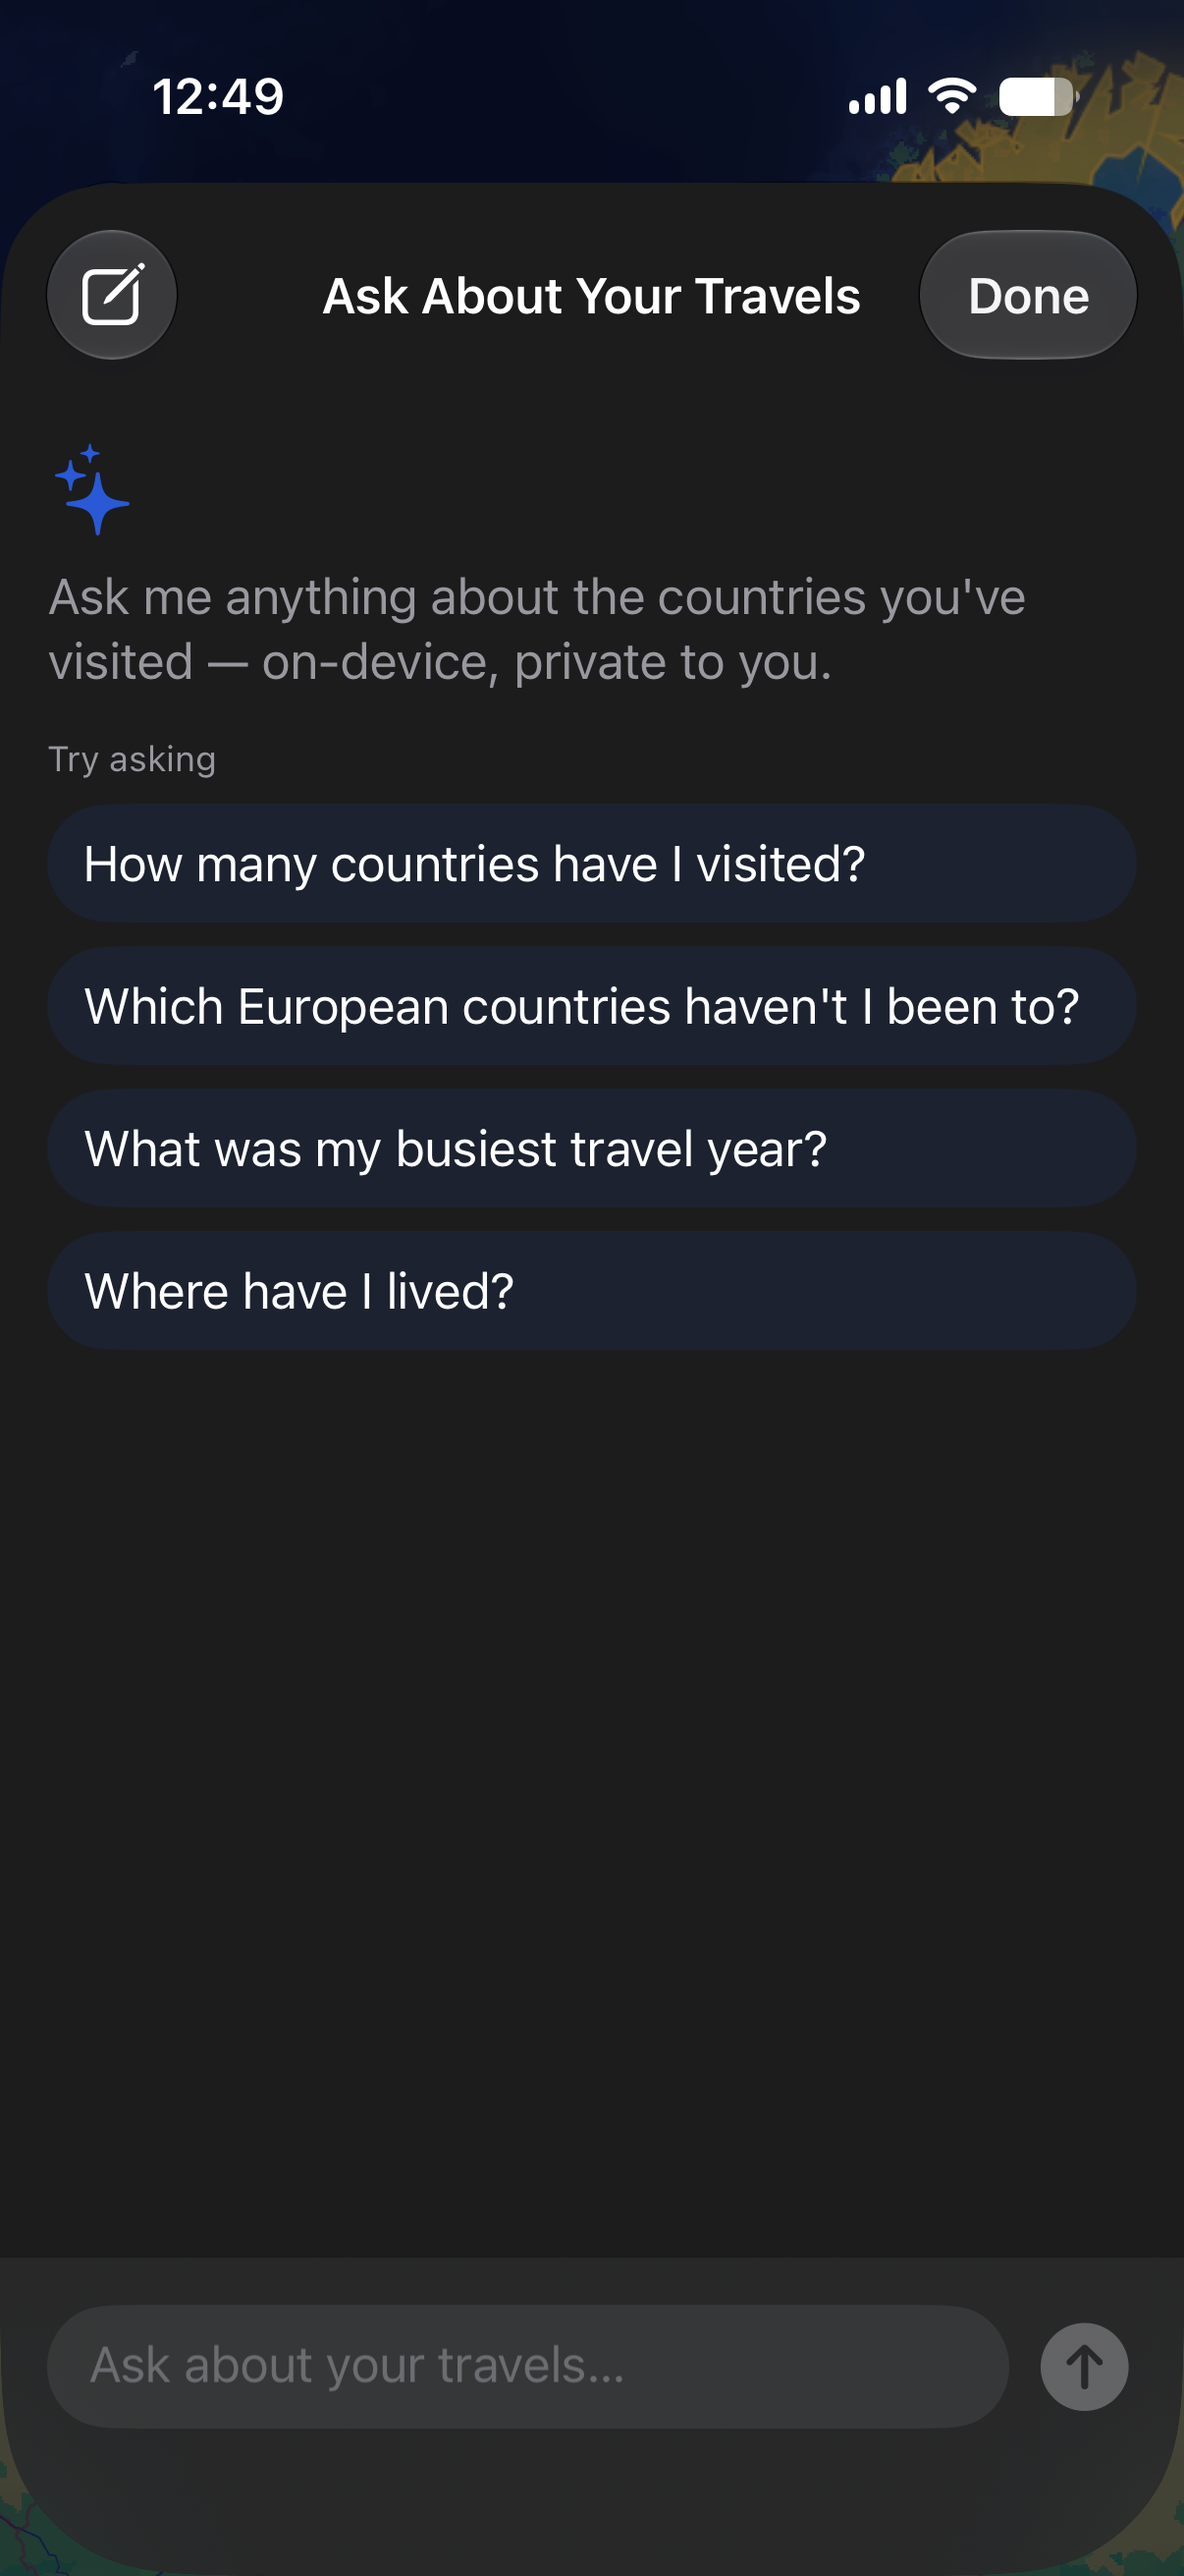
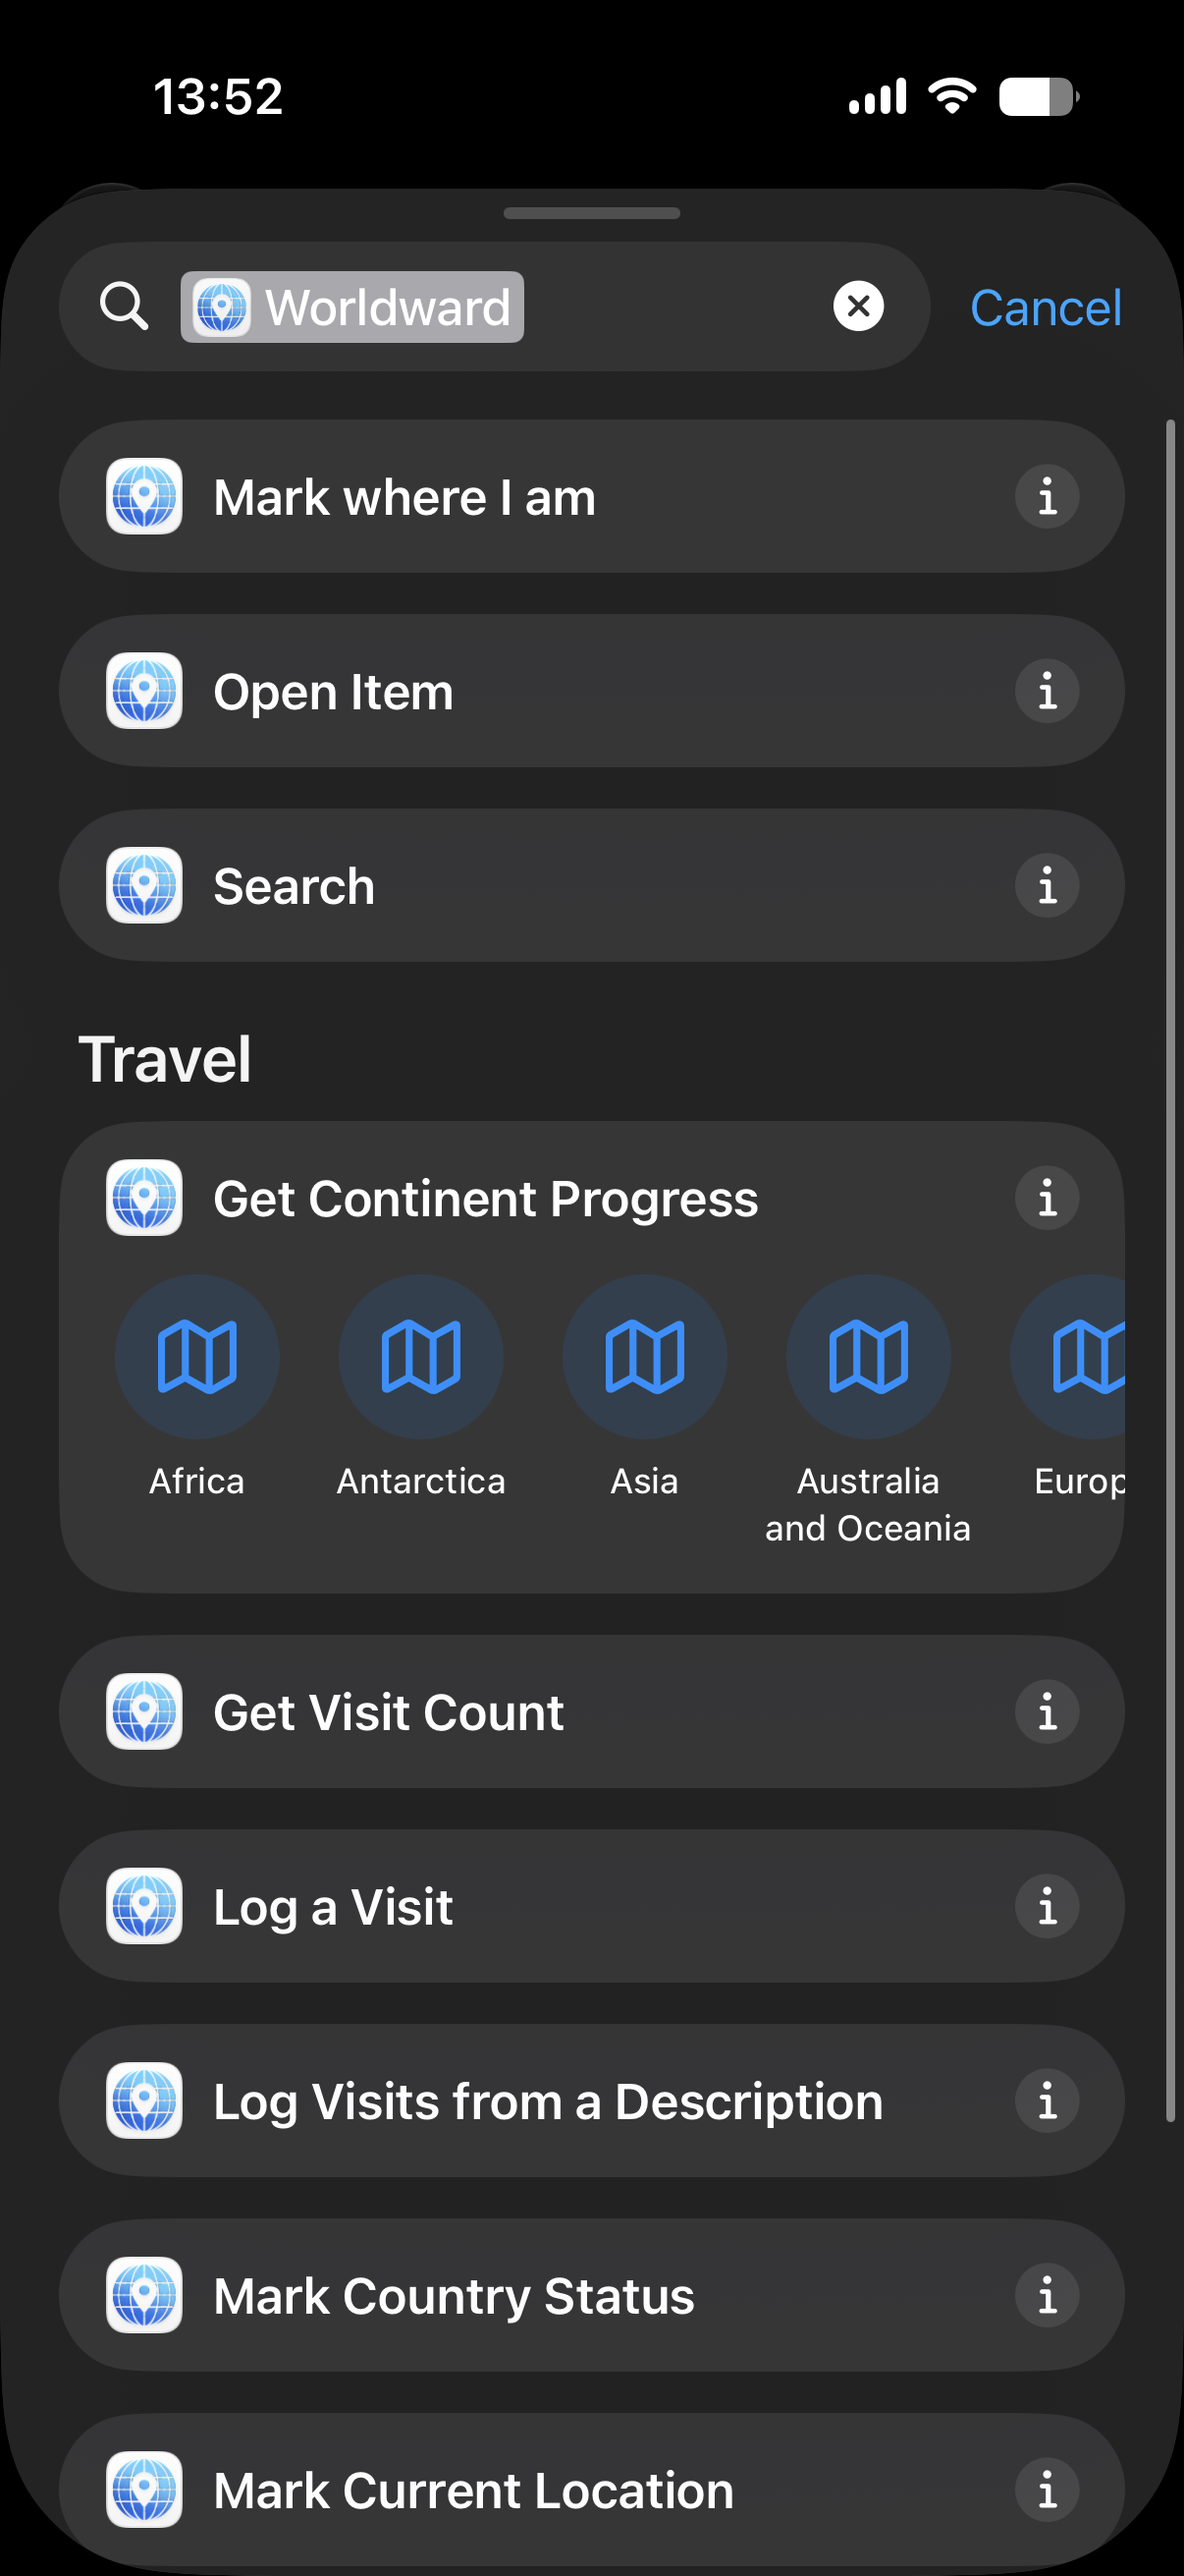
More screenshots

diff --git a/README.md b/README.md
@@ -86,11 +86,11 @@ Worldward is a native macOS / iOS app that visualises every country you've visit
 | | | |
 |---|---|---
 | ![Map View](Assets/Screenshots/1.png) | ![Country Detail](Assets/Screenshots/2.png) | ![Visit Logging](Assets/Screenshots/3.png) |
-| **Interactive Map** - Tap any country to view details, set visit status, and attach photos | **Import from photos** - Options for importing countries from Apple Photos | **Local Foundation Chat** - Chat with Apple Intelligence local model about yours trips |
+| **Interactive Map** - Tap any country to view details, set visit status, and attach photos | **Import from photos** - Options for importing countries from Apple Photos | **Lot of Shortcuts** - Endpoints to iOS Shortcuts to automate your travel workflows |
 | ![Trip Planning](Assets/Screenshots/4.png) | ![Statistics Dashboard](Assets/Screenshots/5.png) | ![Achievements](Assets/Screenshots/6.png) |
 | **Achievments** - Earn achievments by travelling and view your stats | **Share Summary** - Share image or text with summary of your progress | **Been** - Section with all your entries to quick summary countries you've visited |
-| ![Settings](Assets/Screenshots/7.png) | ![Share Card](Assets/Screenshots/8.png) | |
-| **Travel details** - Details of your planned trips | **Going** - Summary of your travel plans |
+| ![Settings](Assets/Screenshots/7.png) | ![Share Card](Assets/Screenshots/8.png) | ![Widgets](Assets/Screenshots/9.png) |
+| **Travel details** - Details of your planned trips | **Going** - Summary of your travel plans | **Widgets** - Home/Lock Screen and Control Center widgets with travel stats and map | 
 
 ---
 
